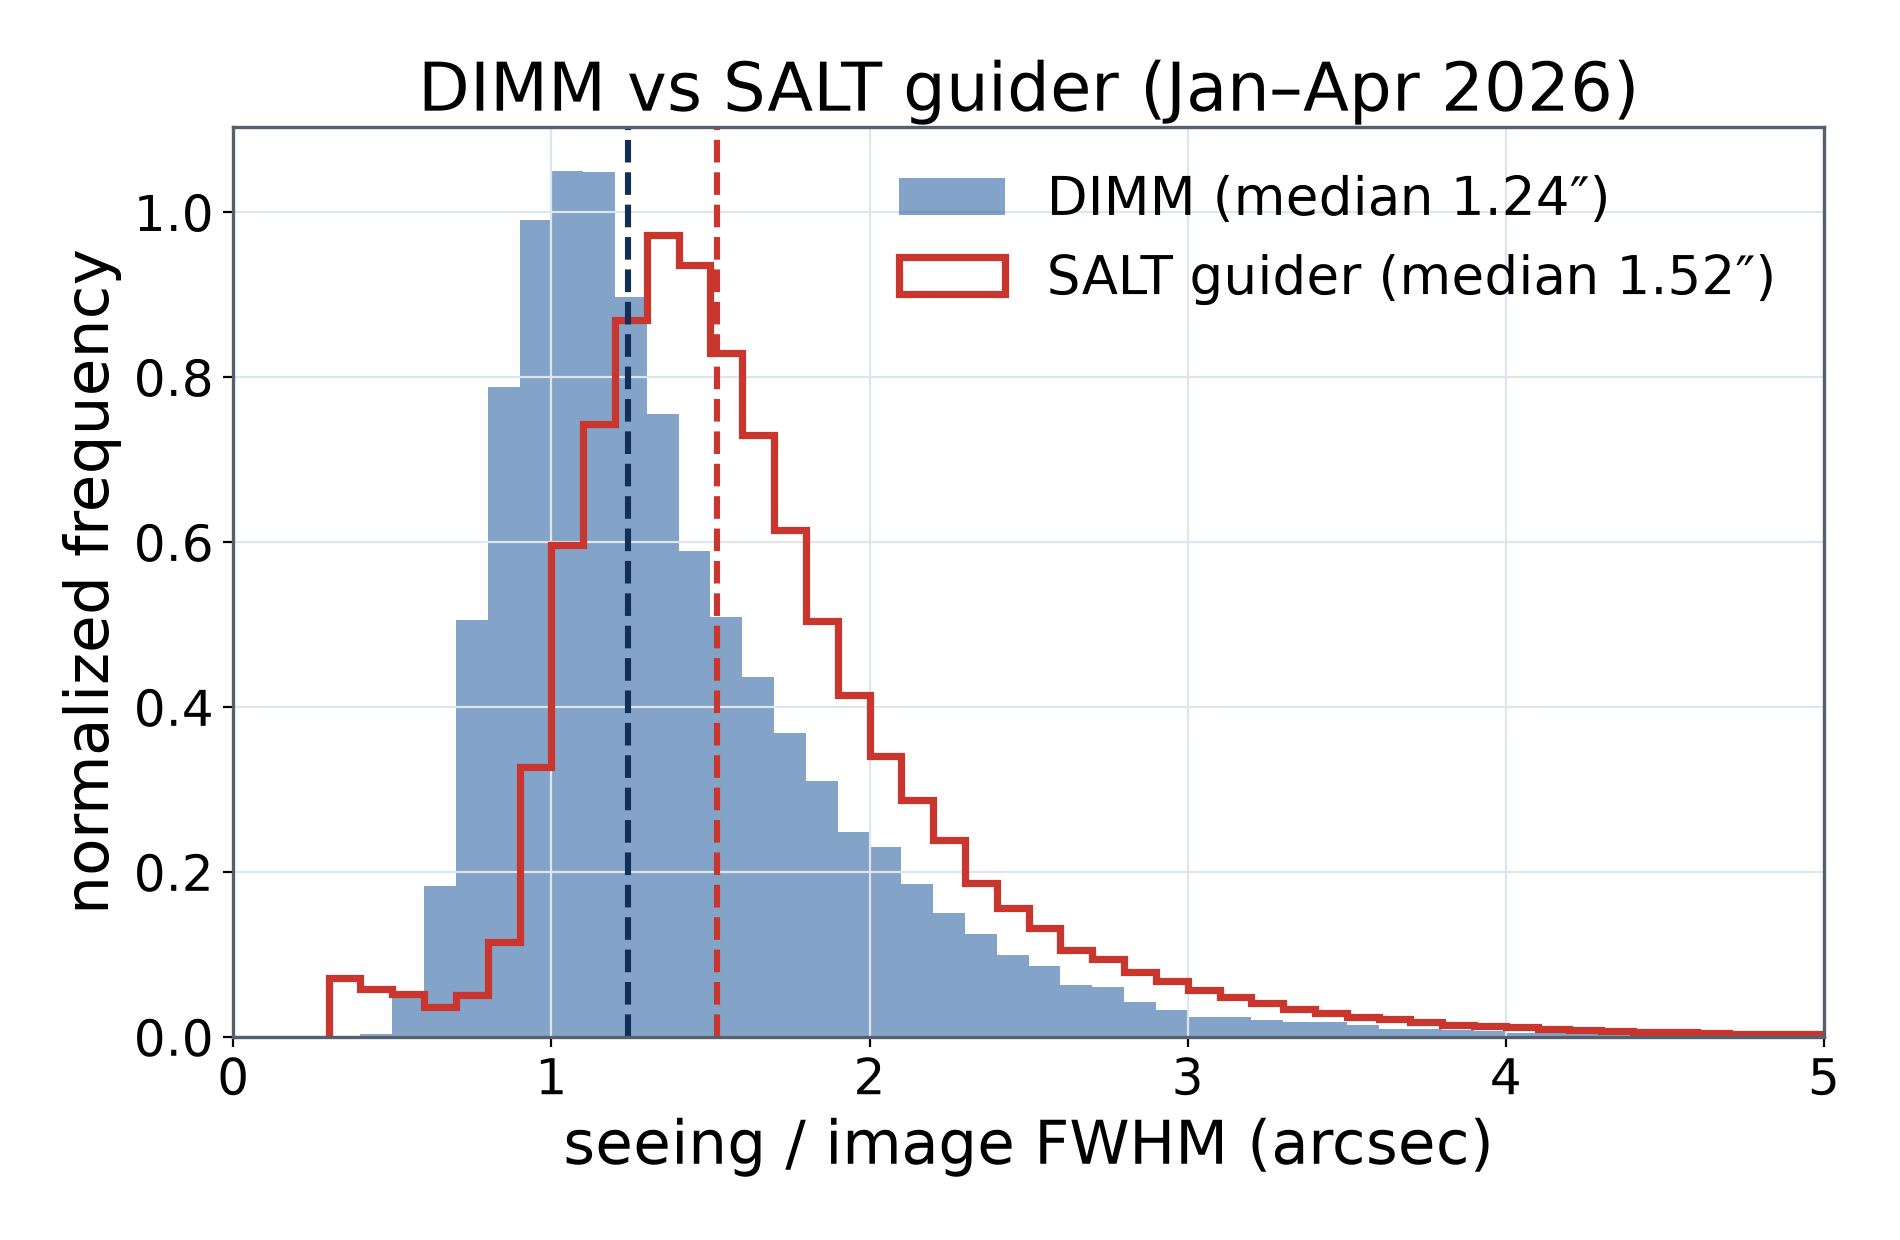
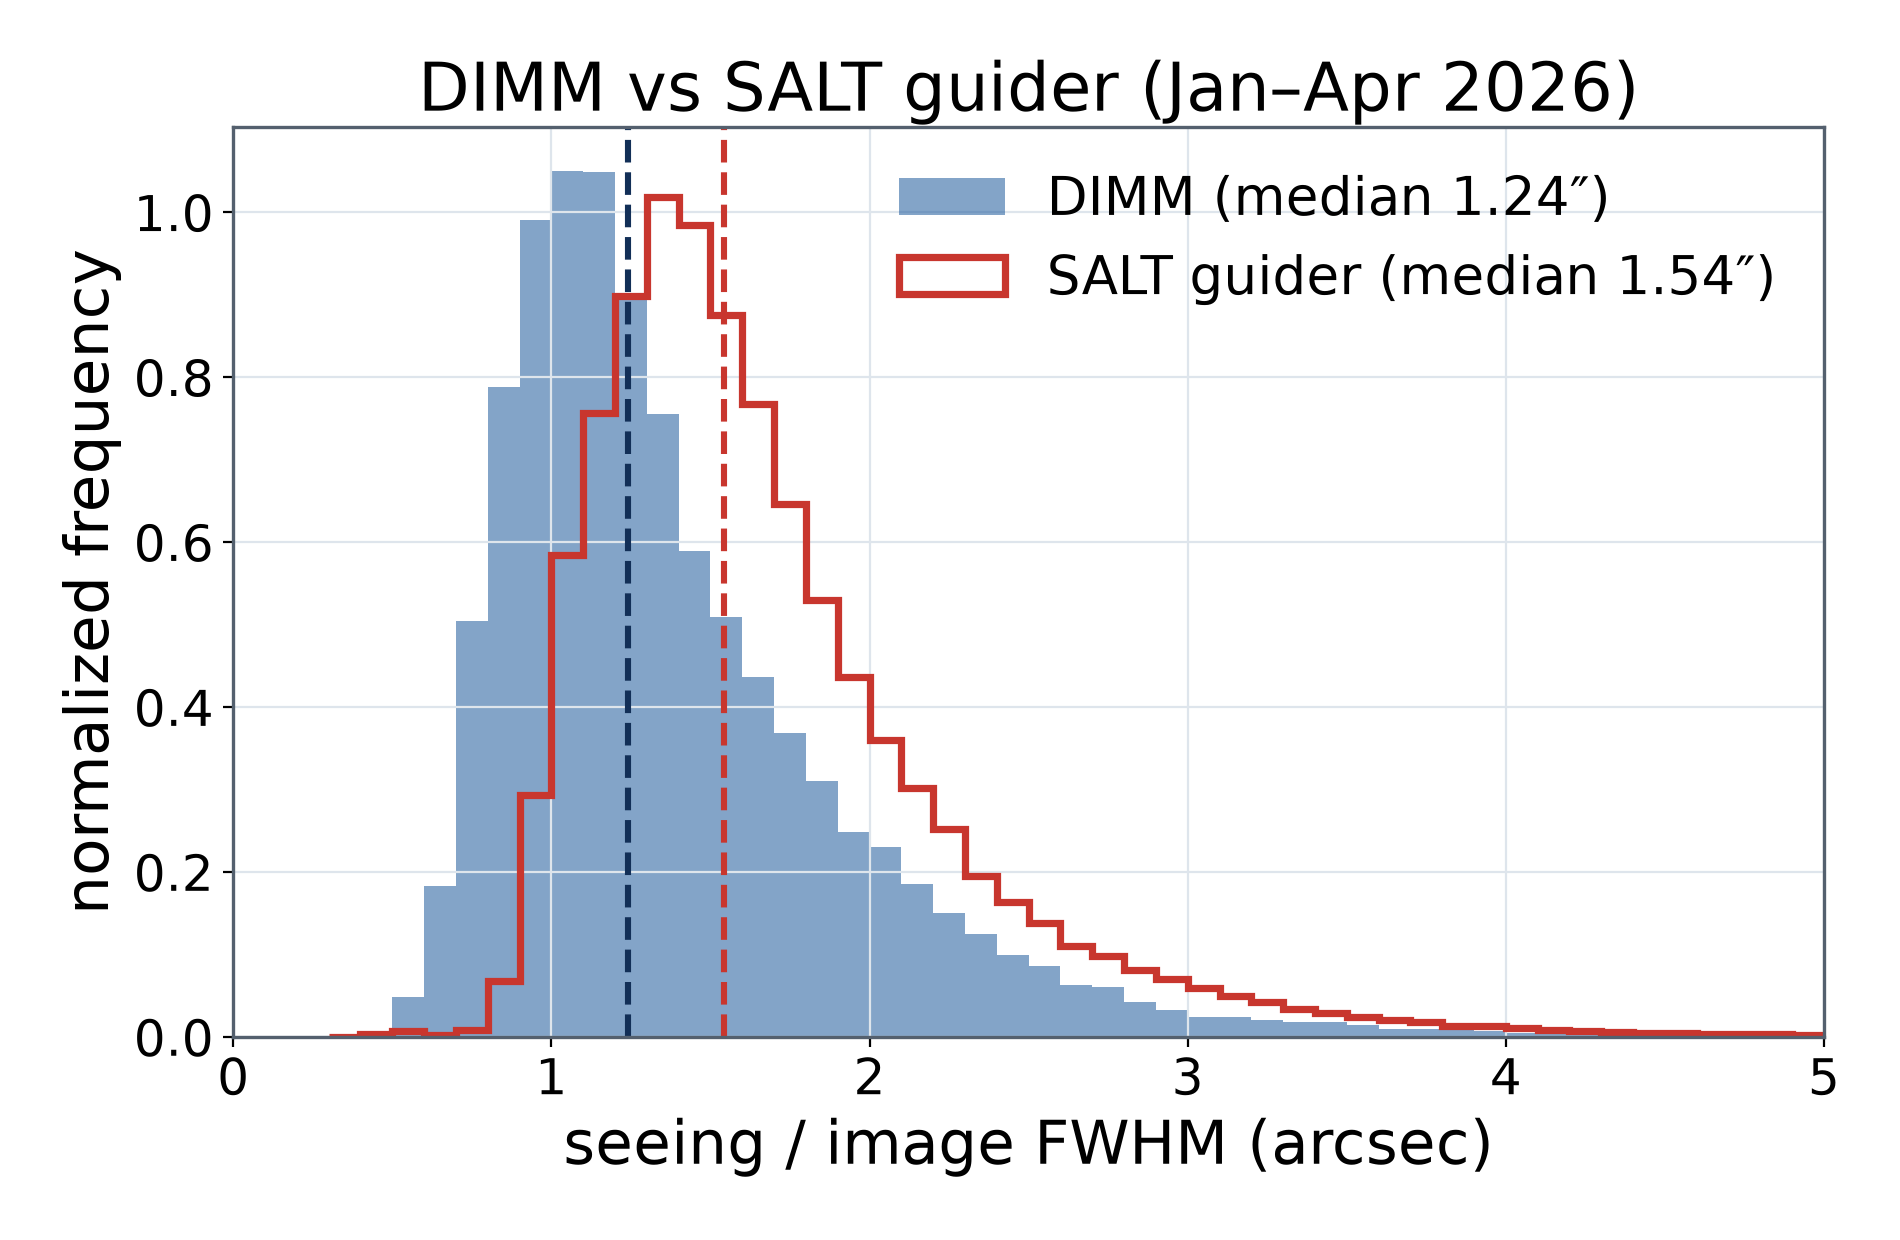
Vendor plot data in-repo and tighten SALT guider filtering
- Move seeing.csv and SALT_guider_data.csv into poster/data/ so the
  figures regenerate without reaching outside the repo; repoint DATA.
- Require both SALT fwhm and ee50 strictly in (0.4, 5)" and agreeing to
  within 30% (max/min <= 1.30); divergent/invalid pairs indicate the
  guider was not locked on a guide star. 382,526 -> 352,555 samples;
  SALT median 1.47" -> 1.54".
- Update comparison caption counts (n = 33,087 DIMM / 352,555 SALT).

diff --git a/index.html b/index.html
@@ -200,7 +200,7 @@
             <img src="assets/figures/seeing_compare_hist.png" alt="DIMM vs SALT guider histograms">
             <figcaption>
               Normalized distributions of DIMM seeing
-              (n&nbsp;=&nbsp;33,091) and SALT guider image FWHM (n&nbsp;=&nbsp;382,526),
+              (n&nbsp;=&nbsp;33,087) and SALT guider image FWHM (n&nbsp;=&nbsp;352,555),
               both in arcsec, over the Jan&ndash;Apr&nbsp;2026 overlap. SALT guider data includes
               both RSS and HRS.
             </figcaption>

diff --git a/scripts/make_plots.py b/scripts/make_plots.py
@@ -13,7 +13,7 @@ import matplotlib.pyplot as plt
 
 HERE = os.path.dirname(os.path.abspath(__file__))
 ROOT = os.path.normpath(os.path.join(HERE, ".."))          # poster repo root
-DATA = os.path.normpath(os.path.join(ROOT, ".."))          # …/timdimm
+DATA = os.path.join(ROOT, "data")                          # in-repo data files
 FIG  = os.path.join(ROOT, "assets", "figures")
 os.makedirs(FIG, exist_ok=True)
 
@@ -23,6 +23,14 @@ MUTED="#54606E"; HAIR="#DEE5EC"
 
 # physical seeing window (arcsec) — rejects non-physical spikes/zeros
 SEEING_MIN, SEEING_MAX = 0.3, 8.0
+
+# SALT guider acceptance criteria.  A genuine lock on a guide star produces a
+# stellar PSF where both the FWHM and the 50%-encircled-energy diameter (ee50)
+# land in a sane range and track each other.  When the guider drifts off the
+# star one or both blow up (or go negative) and the two measures diverge, so we
+# require both to be valid AND to agree to within SALT_AGREE.
+SALT_MIN, SALT_MAX = 0.4, 5.0
+SALT_AGREE = 1.30          # keep only max(fwhm,ee50)/min(fwhm,ee50) <= this
 
 POSTER_STYLE = {
     "font.size": 20, "axes.titlesize": 24, "axes.labelsize": 22,
@@ -50,14 +58,29 @@ LABVIEW_EPOCH = pd.Timestamp("1904-01-01", tz="UTC")
 
 
 def load_salt():
-    """Return cleaned SALT guider data [time(datetime, UTC), fwhm(arcsec)]."""
+    """Return cleaned SALT guider data [time(datetime, UTC), fwhm(arcsec)].
+
+    Keeps only samples where the guider was locked on a star: both fwhm and
+    ee50 strictly inside (SALT_MIN, SALT_MAX) and agreeing to within SALT_AGREE.
+    Divergent or invalid pairs indicate the guider was not locked on a guide
+    star and are discarded.
+    """
     df = pd.read_csv(os.path.join(DATA, "SALT_guider_data.csv"),
-                     usecols=["timestamp", "fwhm"])
+                     usecols=["timestamp", "ee50", "fwhm"])
     n_raw = len(df)
     df["time"] = LABVIEW_EPOCH + pd.to_timedelta(df["timestamp"], unit="s")
-    df = df[(df["fwhm"] > SEEING_MIN) & (df["fwhm"] < SEEING_MAX)].copy()
+    # both measures must be physically plausible …
+    valid = (df["fwhm"].between(SALT_MIN, SALT_MAX, inclusive="neither")
+             & df["ee50"].between(SALT_MIN, SALT_MAX, inclusive="neither"))
+    df = df[valid].copy()
+    n_valid = len(df)
+    # … and must agree (min is now > SALT_MIN, so the ratio is safe)
+    ratio = (np.maximum(df["fwhm"], df["ee50"])
+             / np.minimum(df["fwhm"], df["ee50"]))
+    df = df[ratio <= SALT_AGREE].copy()
     lo, hi = df["time"].min(), df["time"].max()
-    print(f"SALT: {n_raw} raw -> {len(df)} clean | span {lo} .. {hi}")
+    print(f"SALT: {n_raw} raw -> {n_valid} both-valid -> {len(df)} locked "
+          f"({len(df)/n_raw*100:.1f}%) | span {lo} .. {hi}")
     assert pd.Timestamp("2024-01-01", tz="UTC") < lo < pd.Timestamp("2027-01-01", tz="UTC"), \
         "SALT timestamp conversion outside expected window — check LabVIEW epoch"
     return df